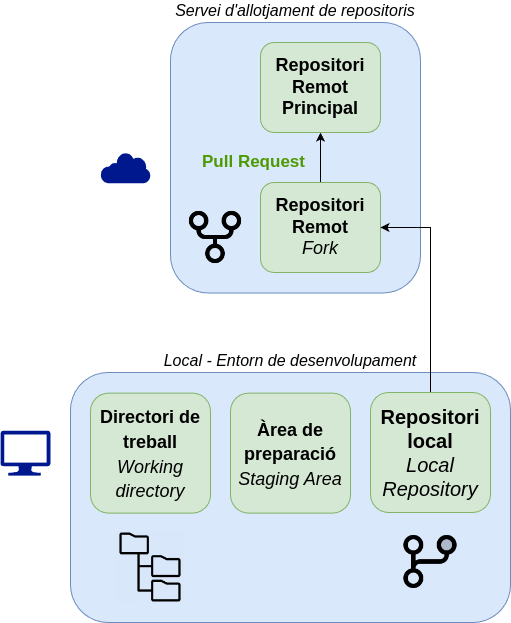
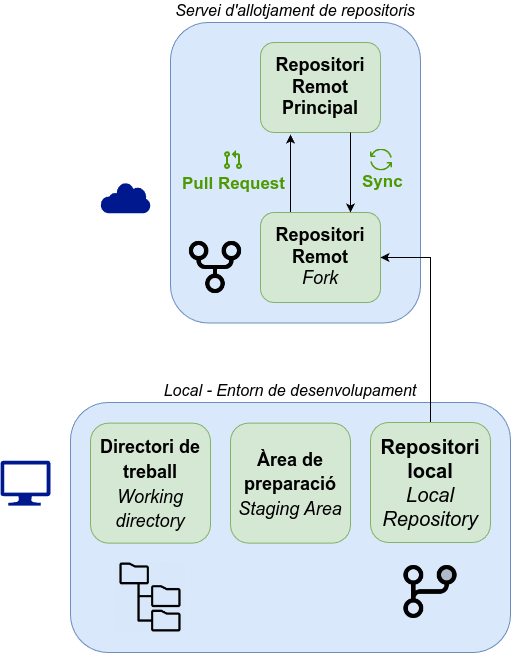
fork

diff --git a/docs/apunts/06_projectes/forks.md b/docs/apunts/06_projectes/forks.md
@@ -24,7 +24,7 @@ com :simple-github: GitHub o :simple-gitlab: GitLab, hi ha dues funcionalitats c
 
 - __:material-source-pull: Pull Requests__: permeten sol·licitar la incorporació de canvis d'un repositori a un altre.
 
-    Si un usuari ha realitzat canvis en un _fork_ i vol que aquests canvis es incorporin
+    Si un usuari ha realitzat canvis en un _fork_ i vol que aquests canvis es incorporen
     al repositori original, pot enviar una sol·licitud de __pull request__. Aquesta sol·licitud
     serà revisada pels propietaris del repositori original, que podran acceptar-la o rebutjar-la.
 
@@ -37,16 +37,16 @@ Una [__bifurcació o *fork*__](https://docs.github.com/es/pull-requests/collabor
 és una còpia d'un repositori que pertany a un usuari o organització
 com a propi.
 
-En el teu _fork_ pots realitzar qualsevol canvi com:
+En el teu _fork_ pots realitzar qualsevol canvi, com per exemple:
 
 - Corregir errors.
 - Afegir funcionalitats.
 - Millorar la documentació.
-- Adaptar el codi a les teves necessitats.
+- Adaptar el codi a les teues necessitats.
 
 Un _fork_ sempre està enllaçat amb el repositori original,
 de manera que es si es realitzen canvis en el repositori original,
-pots decidir incorporar-lo al teu _fork_.
+pots decidir incorporar-los al teu _fork_.
 
 ![Estructura de treball amb Forks i Pull Requests](./img/forks/fork.png)
 /// shadow-figure-caption
@@ -56,19 +56,22 @@ Estructura de treball amb Forks i Pull Requests
 
 
 ??? example "Exemple de bifurcació de :simple-materialformkdocs: Material for MkDocs"
+    La següent imatge mostra el repostori de [:simple-materialformkdocs: Material for MkDocs][mkdocs-material]
 
-    ![Repositori Material for MkDocs principal](./img/forks/fork_principal.png)
+    ![Repositori Material for MkDocs original](./img/forks/fork_principal.png)
     /// shadow-figure-caption
-    [Repositori :simple-materialformkdocs: Material for MkDocs](https://github.com/squidfunk/mkdocs-material){:target="_blank"} principal
+    [Repositori :simple-materialformkdocs: Material for MkDocs][mkdocs-material]
     ///
 
-    Per a poder realitzar contribucions,
-    s'ha creat un _fork_ del repositori original.
+    Per a poder realitzar contribucions, s'ha creat un [:material-source-fork: __*fork*__][mkdocs-material-fork] del repositori original.
 
     ![Repositori Material for MkDocs bifurcat](./img/forks/fork_forked.png)
     /// shadow-figure-caption
-    [Repositori :simple-materialformkdocs: Material for MkDocs](https://github.com/joapuiib/mkdocs-material){:target="_blank"} bifurcat
+    [Repositori :simple-materialformkdocs: Material for MkDocs bifurcat][mkdocs-material-fork]
     ///
+
+[mkdocs-material]: https://github.com/squidfunk/mkdocs-material
+[mkdocs-material-fork]: https://github.com/joapuiib/mkdocs-material
 
 
 ### Creació d'un Fork
@@ -84,137 +87,24 @@ i fer clic al botó __:material-source-fork: Fork__ que apareix a la part superi
     ///
 
 
-## :material-source-pull: Pull Requests
-Una [__Sol·licitud de Incorporació o *Pull Request (PR)*__](https://docs.github.com/es/pull-requests/collaborating-with-pull-requests){:target="_blank"}
-és una sol·licitud per a incorporar canvis a un repositori.
+### :octicons-sync-24: Sincronització amb el repositori original
+Si el repositori original ha realitzat nous canvis des de la creació del _fork_,
+pots incorporar-los al teu _fork_ per mantindre'l actualitzat amb el botó __:octicons-sync-24: Sync__.
 
-Els PR poden ser utilitzats per a:
+??? example "Sincronització amb el repositori original"
+    Com que el repositori original :simple-materialformkdocs: Material for MkDocs té nous canvis
+    (concretament 34 nous _commits), podem sincronitzar el nostre _fork_.
 
-- Incorporar canvis d'un _fork_ a un repositori original.
-- Incorporar canvis d'una branca a una altra branca.
 
-Aquesta funcionalitat es essencial per a la col·laboració en projectes, especialment els de :material-open-source-initiative: codi obert.
-A més, aquesta funcionalitat pot ser implementada dins d'una __[[estrategies|estratègia de ramificació]]{:target="_blank"}__.
-
-A un PR es pot afegir informació com:
-
-- Títol i descripció dels canvis.
-- Comentaris per als revisors.
-- Referències a tasques o [[eines-gestio#incidencies]]{:target="_blank"}.
-
-A més, es pot consultar:
-
-- Els canvis realitzats.
-- Els fitxers modificats.
-- Les [[actions|comprovacions automàtiques]]{:target="_blank"} realitzades.
-
-Les PR poden estar en quatre estats diferents:
-
-- __:octicons-git-pull-request-draft-24: Esborrany o *Draft*__: En procés de creació.
-- __:octicons-git-pull-request-24: Obert__: En procés de revisió i llest per a ser fusionat.
-- __:material-source-merge: Fusionat__: acceptat i incorporat al repositori.
-- __:octicons-git-pull-request-closed-24: Tancat__: rebutjat o tancat sense incorporar.
-
-??? example "Exemple de Pull Request a :simple-materialformkdocs: Material for MkDocs"
-    En el repositori :simple-materialformkdocs: Material for MkDocs
-    existeixen múltiples PR on s'han realitzat canvis per a millorar el tema
-    o actualitzar la documentació.
-
-    ![Sol·licitud de Pull Request](./img/forks/pull_request.png)
+    ![Sincronització amb el repositori original](./img/forks/sync.png)
     /// shadow-figure-caption
-    Exemple de [Pull Request en el repositori :simple-materialformkdocs: Material for MkDocs](https://github.com/squidfunk/mkdocs-material/pulls){:target="_blank"}
-    ///
-
-### Creació d'un Pull Request
-Per crear un PR, cal accedir al teu _fork_ o branca i fer clic al botó __:material-source-pull: Pull Request__.
-
-En el procés de creació d'un PR, es mostrarà una pantalla on es compararan els canvis realitzats
-amb la branca de destí i es podrà afegir informació addicional com el títol i la descripció.
-
-??? example "Creació d'un Pull Request"
-    A la branca `feature/time-range` del meu _fork_ podem crear un PR per a incorporar els canvis al repositori original.
-
-    ![Creació d'un Pull Request](./img/forks/pull_request_create.png)
-    /// shadow-figure-caption
-    Creació d'un Pull Request
+    Sincronització amb el repositori original en el repositori :simple-materialformkdocs: Material for MkDocs
     ///
 
 
-    En la pantalla de creació d'un PR es poden veure els canvis realitzats en la branca `feature/time-range`
-    respecte a la branca de destí `verion3`.
+### :octicons-git-pull-request-24: Pull Request
+En cas que volguerem contribuir al repositori original,
+podem crear una [__sol·licitud d'incorporació de canvis__ o __:octicons-git-pull-request-24: Pull Request__][pr],
+que veurem en els següents apunts.
 
-    ![Comparació de canvis en un Pull Request](./img/forks/pull_request_compare.png)
-    /// shadow-figure-caption
-    Comparació de canvis en un Pull Request
-    ///
-
-Una vegada creat la PR, es pot sol·licitar la revisió dels canvis a altres usuaris
-i realitzar els canvis necessaris fins a la seva acceptació.
-
-### Incorporació de la Pull Request
-Quan un PR és acceptat, els canvis es fusionen amb la branca de destí i es tanca la PR.
-
-La fusió del PR pot ser de diferents tipus:
-
-- __Crear un _commit_ de fusió__: es crea un nou _commit_ que incorpora els canvis de la PR, com en una [[branques#fusio-de-branques-divergents]]{:target="_blank"}.
-- __Fusió en un sol _commit_ (`squash`)__: es fusionen tots els canvis de la PR en un sol _commit_ mitjançant [[squash]]{:target="_blank"}.
-- __Canvi de base (`rebase`)__: es realitza un [[branques#canvi-de-base-rebase]]{:target="_blank"} de la branca de la PR respecte a la branca de destí
-    i es fusiona amb una [[branques#fusio-directa]]{:target="_blank"}.
-
-![Tipus de fusió d'una Pull Request](./img/forks/merge-pull-request-options.webp){: style="max-height: 300px;"}
-/// shadow-figure-caption
-Tipus de fusió d'una Pull Request
-///
-
-### Configuració de les Pull Requests
-El repositori pot ser configurat per habilitar els diferents tipus de fusió,
-entre altres configuracions a l'apartat __:octicons-gear-16: Settings__
-
-![Configuració de les opcions de les Pull Requests](./img/forks/pull_request_config.png)
-/// shadow-figure-caption
-Configuració de les opcions de les Pull Requests
-///
-
-## Flux de treball
-Amb aquestes dues funcionalitats, es pot establir un flux de treball per a la col·laboració
-en projectes de desenvolupament de programari.
-
-Aquest flux de treball pot ser el següent:
-
-1. Realitzar un _fork_ del repositori original.
-2. Clonar el _fork_ en el teu entorn de desenvolupament.
-3. Crear una branca per a realitzar els canvis.
-4. Realitzar els canvis en la branca.
-5. Publicar la branca en el _fork_.
-6. Crear un PR per a incorporar els canvis al repositori original.
-7. Revisar i debatre els canvis amb els revisors.
-8. Incorporar els canvis al repositori original.
-9. Actualitzar el _fork_ amb els canvis del repositori original.
-
-## Protecció de branques
-Per a evitar canvis no desitjats en les branques principals
-i evitar problemes deguts a una mala aplicació de les [[estrategies]],
-les branques importants `main` i `develop` poden ser protegides
-mitjançant [__conjunts de regles (_Rulesets_)__](https://docs.github.com/es/github/administering-a-repository/defining-the-mergeability-of-pull-requests){:target="_blank"}.
-
-Per configurar les regles de protecció de branques, cal accedir a la configuració del repositori __:octicons-gear-16: Settings__
-i buscar l'apartat __:material-book-arrow-up-outline: Rules__.
-
-![Protecció de branques](./img/forks/ruleset.png)
-/// shadow-figure-caption
-Protecció de branques
-///
-
-Aquestes regles permeten definir les condicions per modificar la branca especificada,
-com ara:
-
-- Protegir-les contra creació, modificació o eliminació.
-- Obligar a mantindre una història lineal.
-- No permetre publicacions forçades (`push --force`).
-- Requerir que les [[actions|comprovacions automàtiques]]{:target="_blank"} s'hagen realitzat correctament.
-- Requerir que la fusió es realitze mitjançant un PR.
-    
-    En aquest cas, es poden configurar altres opcions com:
-
-    - Requerir revisió d'un nombre mínim de revisors.
-    - Requerir una resolució dels conflictes abans de la fusió.
+[pr]: pull-requests.md
